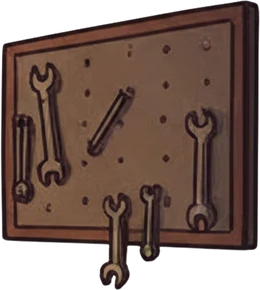
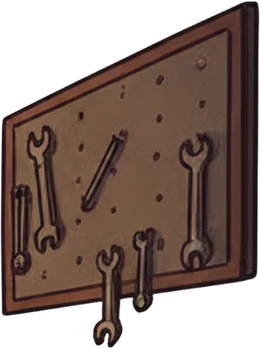
Ангар: стенд с ключами в перспективе стены; редактор — уголок и кнопки размера

diff --git a/app/test-hangar-layout/page.tsx b/app/test-hangar-layout/page.tsx
@@ -23,7 +23,7 @@ export default function Page() {
     const [sel, setSel] = useState<string | null>(null)
     const [copied, setCopied] = useState(false)
     const box = useRef<HTMLDivElement>(null)
-    const drag = useRef<{ key: string; dx: number; dy: number } | null>(null)
+    const drag = useRef<{ key: string; dx: number; dy: number; resize?: { w: number; h: number; x0: number } } | null>(null)
     const list = objs[state]
 
     const toCanvas = (e: React.PointerEvent) => {
@@ -46,7 +46,7 @@ export default function Page() {
         <div className="min-h-screen bg-[#0F171B] px-4 py-5 text-white">
             <div className="mx-auto max-w-2xl">
                 <h1 className="text-xl font-extrabold">Ангар — расстановка</h1>
-                <p className="mb-3 text-xs font-bold text-[#7E8F99]">Тащи предмет пальцем или мышкой. Размер — колёсико мыши или кнопки ±. Потом «Скопировать» и пришли мне текст.</p>
+                <p className="mb-3 text-xs font-bold text-[#7E8F99]">Тащи предмет пальцем или мышкой. Размер — жёлтый уголок у выбранного предмета, кнопки − / + на картинке или колёсико мыши. Потом «Скопировать» и пришли мне текст.</p>
                 <div className="mb-2 flex gap-2">
                     {(['b', 'a'] as const).map((k) => (
                         <button key={k} onClick={() => { setState(k); setSel(null) }} className="rounded-lg px-3 py-1.5 text-sm font-bold"
@@ -58,7 +58,7 @@ export default function Page() {
                 </div>
 
                 <div ref={box} className="relative aspect-square w-full touch-none select-none overflow-hidden rounded-2xl border-2 border-[#2C3A41]"
-                    onPointerMove={(e) => { const d = drag.current; if (!d) return; const p = toCanvas(e); update(d.key, () => ({ x: p.x - d.dx, y: p.y - d.dy })) }}
+                    onPointerMove={(e) => { const d = drag.current; if (!d) return; const p = toCanvas(e); const rz = d.resize; if (rz) { const w = Math.max(12, Math.round(rz.w + (p.x - rz.x0) * 2)); update(d.key, () => ({ w, h: Math.round(rz.h * w / rz.w) })) } else update(d.key, () => ({ x: p.x - d.dx, y: p.y - d.dy })) }}
                     onPointerUp={() => { drag.current = null }} onPointerLeave={() => { drag.current = null }}>
                     {/* eslint-disable-next-line @next/next/no-img-element */}
                     <img src={state === 'b' ? '/hangar/bg-dirty.webp' : '/hangar/bg.webp'} alt="" className="pointer-events-none absolute inset-0 h-full w-full" draggable={false} />
@@ -70,6 +70,18 @@ export default function Page() {
                             onPointerDown={(e) => { e.preventDefault(); (e.currentTarget.parentElement as HTMLElement).setPointerCapture(e.pointerId); const p = toCanvas(e); drag.current = { key: o.key, dx: p.x - o.x, dy: p.y - o.y }; setSel(o.key) }}
                             onWheel={(e) => { setSel(o.key); scale(o.key, e.deltaY < 0 ? 1.05 : 1 / 1.05) }} />
                     ))}
+                    {s && (
+                        // уголок для растягивания: тянешь вправо — больше, влево — меньше (низ предмета остаётся на месте)
+                        <span className="absolute z-10 h-6 w-6 -translate-x-1/2 -translate-y-1/2 cursor-nwse-resize rounded-md border-2 border-[#0F171B] bg-[#F2C35B]"
+                            style={{ left: pct(s.x + s.w / 2), top: pct(s.y) }}
+                            onPointerDown={(e) => { e.preventDefault(); e.stopPropagation(); (e.currentTarget.parentElement as HTMLElement).setPointerCapture(e.pointerId); const p = toCanvas(e); drag.current = { key: s.key, dx: 0, dy: 0, resize: { w: s.w, h: s.h, x0: p.x } } }} />
+                    )}
+                    {s && (
+                        <div className="absolute right-2 top-2 z-10 flex gap-1.5">
+                            <button onClick={() => scale(s.key, 1 / 1.1)} className="h-11 w-11 rounded-xl bg-[#0F171B]/85 text-2xl font-black text-white">−</button>
+                            <button onClick={() => scale(s.key, 1.1)} className="h-11 w-11 rounded-xl bg-[#0F171B]/85 text-2xl font-black text-white">+</button>
+                        </div>
+                    )}
                 </div>
 
                 <div className="mt-3 flex items-center gap-2 rounded-xl bg-[#1C262B] px-3 py-2 text-sm font-bold">

diff --git a/docs/hangar/tools/build.py b/docs/hangar/tools/build.py
@@ -33,6 +33,21 @@ def grade(im):
     a[..., :3] = rgb
     return Image.fromarray(a.clip(0, 255).astype('uint8'), 'RGBA')
 
+def wall_warp(im, top_slope=0.30, bottom_slope=0.17, grow=1.12):
+    # Стенд на правой стене: правая сторона ближе (выше), верх и низ идут вдоль балок стены.
+    W, Hh = im.size
+    hR = Hh * grow; hL = hR + bottom_slope * W - top_slope * W
+    yTL = top_slope * W
+    outH = int(max(yTL + hL, hR)) + 2
+    dst = [(0, yTL), (W, 0), (W, hR), (0, yTL + hL)]
+    src = [(0, 0), (W, 0), (W, Hh), (0, Hh)]
+    import numpy as _np
+    A = []; B = []
+    for (x, y), (u, v) in zip(dst, src):
+        A += [[x, y, 1, 0, 0, 0, -u * x, -u * y], [0, 0, 0, x, y, 1, -v * x, -v * y]]; B += [u, v]
+    coef = _np.linalg.solve(_np.array(A, float), _np.array(B, float))
+    return im.transform((W, outH), Image.Transform.PERSPECTIVE, tuple(coef), Image.Resampling.BICUBIC)
+
 def prep(name, squash, flip, erase=None):
     im = Image.open(f'{H}/{name}.png').convert('RGBA')
     if erase:  # стереть лишнее (угол ящика у 11-before)
@@ -40,6 +55,7 @@ def prep(name, squash, flip, erase=None):
     im = im.crop(im.getchannel('A').getbbox())
     if squash != 1: im = im.resize((im.width, max(1, round(im.height * squash))), Image.Resampling.LANCZOS)
     if flip: im = im.transpose(Image.Transpose.FLIP_LEFT_RIGHT)
+    if name.startswith('02-'): im = wall_warp(im); im = im.crop(im.getchannel('A').getbbox())
     return grade(im)
 
 bg = Image.open(f'{H}/bg-empty.jpg').convert('RGB')
